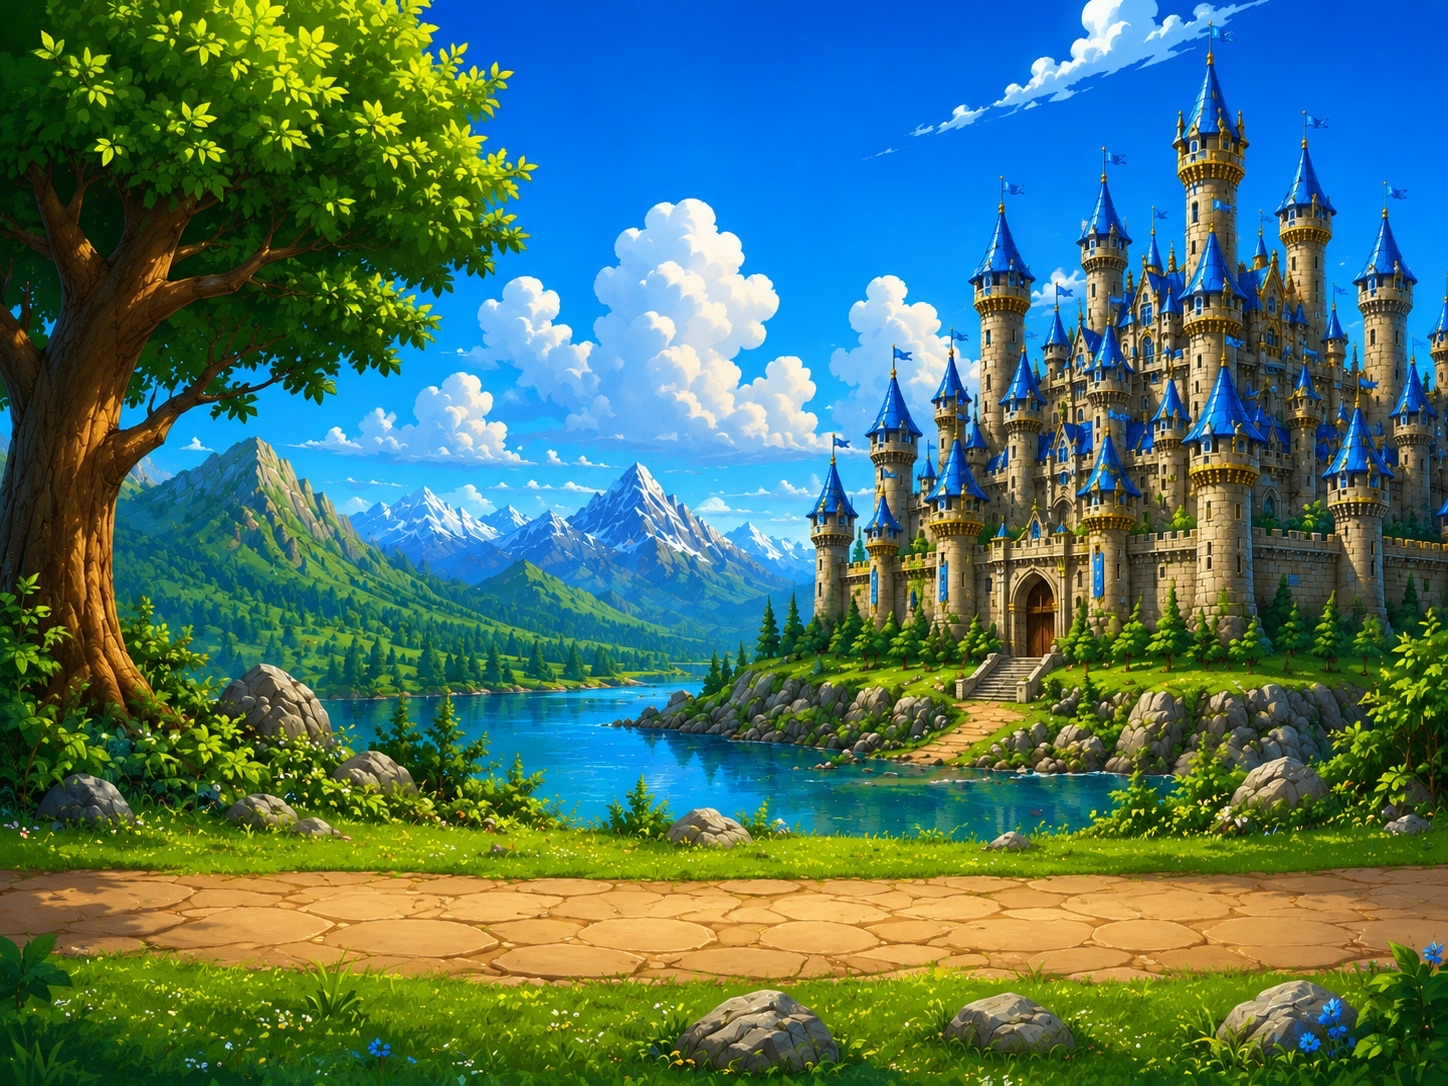
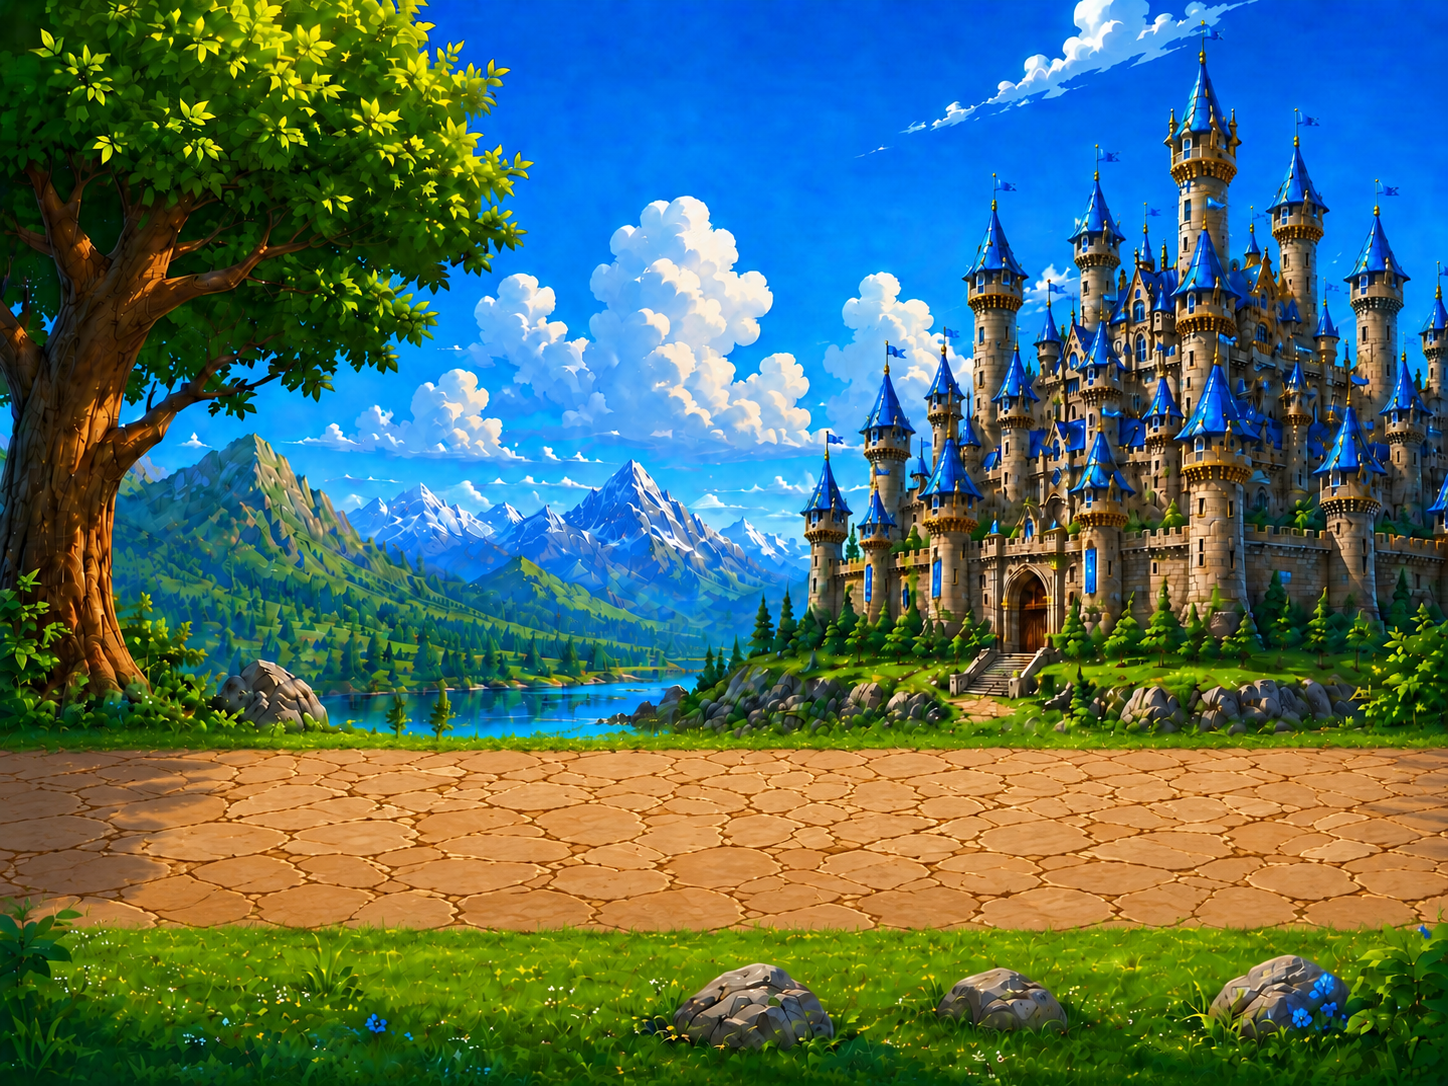
deploy

diff --git a/flutter_service_worker.js b/flutter_service_worker.js
@@ -22,11 +22,11 @@ const RESOURCES = {".git/COMMIT_EDITMSG": "45c9eb7fa6e6a781268f8a3b8d62d8b9",
 ".git/hooks/push-to-checkout.sample": "c7ab00c7784efeadad3ae9b228d4b4db",
 ".git/hooks/sendemail-validate.sample": "4d67df3a8d5c98cb8565c07e42be0b04",
 ".git/hooks/update.sample": "647ae13c682f7827c22f5fc08a03674e",
-".git/index": "93c9b75847247e6ef7473c531db1bafe",
+".git/index": "cbb3b2405c1a00537d2b2fc0636cca5d",
 ".git/info/exclude": "036208b4a1ab4a235d75c181e685e5a3",
-".git/logs/HEAD": "abaa09b4e73ff0c42d42c70174e08e63",
-".git/logs/refs/heads/main": "df1f13d39b8c5c9f3ba22aa9d0eec16a",
-".git/logs/refs/remotes/origin/main": "312b440e0ca0659f8e264867123fb52e",
+".git/logs/HEAD": "f9f08288977f86937f16a86cf0b85808",
+".git/logs/refs/heads/main": "94243ccacf17d97a7590c2835fb919c3",
+".git/logs/refs/remotes/origin/main": "e1e3fdac8f2f92d2be15bba2898fd5a6",
 ".git/objects/00/4bda465c9ded25b3f61507162a463f13f71871": "e49dc6b1fb86f9236b55357f4d8a7829",
 ".git/objects/00/751369d91f3ee2df336f54ea5fe0fc89c026cf": "c75afbf59647eb07c3da63f255192c84",
 ".git/objects/00/845272cfd3158758032e6a505e8bbaa8c04acb": "b522a5d86fd47cf6e847d8b1d68e036a",
@@ -42,11 +42,13 @@ const RESOURCES = {".git/COMMIT_EDITMSG": "45c9eb7fa6e6a781268f8a3b8d62d8b9",
 ".git/objects/09/0a87f43e524fe8f5eddc3c6950d202483f2c5b": "1c67a0c100b41fcb261379853a4913da",
 ".git/objects/0a/5e53bba4c22c3577d6784c8136a39059952924": "76b0f28c5e0729e7d96cf7447c873f34",
 ".git/objects/0b/0ddd70f3a32394d5027b44c8b07e865bc2b93c": "3a87a1ddd2f61c9c22d371bd4d2ff108",
+".git/objects/0d/07198f16db782808192c4512045268c6597b9e": "8221df1845b7b4a0d8f34d0ee4b380f4",
 ".git/objects/0d/df0ec50a90ff6b43aa044f7a6818f818509594": "d9a8495a42d719b670d669fcf0565d65",
 ".git/objects/0e/588465e96c086453fadd8df033755e45d17256": "4e827caf75813841025338b6e64d747d",
 ".git/objects/13/392e1dda03481bfbc4e69fe3573386f154f486": "dc061569a78790d1978ba821b527f561",
 ".git/objects/14/23e1056bfe028529591e6f31ef7bcdb7a7b9a7": "d01636d2731210c1f79f1cdeaed1e8de",
 ".git/objects/14/6438061155274f30c3fdb3dcc4af9503b5702e": "71b7a25273ff9d2de18604d8cb0ba3e5",
+".git/objects/15/c0305ef8431fb9f56a719f9a0850b74168532c": "3d61eb4eca042ffabd8286487a1dce19",
 ".git/objects/18/27a329f2fac4275a9799bc991a2623ab180e1a": "6e7e4a7fca5bc60d0d5d4c158ba6d1f8",
 ".git/objects/18/52cff9b578a991f04dc29e4bb88bfc0ca4aa69": "aa1f4e6358adfa674ad97adddfcc81b9",
 ".git/objects/1c/91121e2a757545d6cfec0c34b63118e260f76c": "d3cc11de0871637dbe621176c87d5bb2",
@@ -67,6 +69,7 @@ const RESOURCES = {".git/COMMIT_EDITMSG": "45c9eb7fa6e6a781268f8a3b8d62d8b9",
 ".git/objects/34/b722a41c19220c24d3df9337a4c0d632988b54": "3227efbc821efc48a336402af802a1c1",
 ".git/objects/34/bf47accc6b998cc0915b35eb9e0cfbdf19db20": "ad76904ef51f9d7c33d740e9bc8cf607",
 ".git/objects/35/9176f5b35245b7936744ba13d771e2115409cd": "d3ef9fd8faba91f6a5d650755ff8332b",
+".git/objects/35/b12c85abbba8da859226d6c6ddc45128bd1667": "2d93492807f430bb27365db3b5fd637e",
 ".git/objects/39/9061f8a0621715d0bd968b7051f497a3e7ca31": "b7c61732475f5f7fc8746c4f45b5ea8f",
 ".git/objects/3a/2fb374ce038d6f079a1a2130d0218a089ef99b": "86e648f3fc1e4f030c8777886d67e519",
 ".git/objects/3b/001690156a9cc8743ca3564b3ef04a9b545423": "14c9e894fa331d80ad9aeffa39ec9d58",
@@ -86,6 +89,7 @@ const RESOURCES = {".git/COMMIT_EDITMSG": "45c9eb7fa6e6a781268f8a3b8d62d8b9",
 ".git/objects/4a/2d64cad106407c9242e75cba33de893271b551": "475e99af05f882b2740292cafddf4d01",
 ".git/objects/4a/db1ca206f14d1842e87bc48c6abbb7c2cf903f": "a9b17b2d447db743209751341a950e25",
 ".git/objects/4b/04006480f884a12d164d72273f8aafe2f33052": "84e205281a301e5a440a3d18d88684f7",
+".git/objects/4c/a76006c783f3babb5a42368c0acaf8edde0b3a": "9f0947999c5c263bbfec74994384eb4a",
 ".git/objects/4d/1e6e90b7083f66ddec47d93dd77bbab44d5921": "72f9481a7620cc60928fff8190089c7e",
 ".git/objects/4d/8f1faf3e2aeeda5f21920ceb5d08dc06dcc853": "cfd6dfa4e42cae1cb3cbc77a2fd36676",
 ".git/objects/4e/28a82bf9087a9ea5289a9d317258cbca5e16d7": "595bec503af11c36a505e8a17d10a11d",
@@ -100,6 +104,7 @@ const RESOURCES = {".git/COMMIT_EDITMSG": "45c9eb7fa6e6a781268f8a3b8d62d8b9",
 ".git/objects/5b/897f4496f30d49b9c7852f63b31b9a4b478870": "b9574b339a27a477d54e25337fb40885",
 ".git/objects/5d/cde9f3e01098d5e7060a8849247ddca84b5a6e": "f4b93d71d2dc3ae2236be47f0818fd9c",
 ".git/objects/5e/0c836743cacc7cbf54e1f176f386545b1fc941": "93c0573611a3ea617d5d25bfbb99d74e",
+".git/objects/5f/27ca1497fce5cd776147687312c22246265638": "16c7268e643e2232fdde069b83a362cf",
 ".git/objects/61/f5c06cace931ef088b0717a15e96ca6dbab8aa": "f3457e2a1bd287bbae54715e6213d5c2",
 ".git/objects/62/a402820217e5dba71425d6d432cf51fb25cf86": "c9ed9c3945a161c075bdb7361d17c10f",
 ".git/objects/65/9c168de863b7fbb9a9a80b5376bc3571914ef8": "0a60f561b787bb7c05acd83ac8768b5a",
@@ -115,6 +120,7 @@ const RESOURCES = {".git/COMMIT_EDITMSG": "45c9eb7fa6e6a781268f8a3b8d62d8b9",
 ".git/objects/6c/c08fb45c17a3770aff7e38bb12de2dc42c54e4": "ae74187390a0664322213deb7ada57e1",
 ".git/objects/6f/01f4bc7348373d05d675e9f5feae7832f1e9c4": "6dbbf4a1931e3c3ae679911dfa54f627",
 ".git/objects/6f/24db2e445d38c1c481c5d586fc285f4496195c": "1096a6c3fc288cabd839f133e84ae95b",
+".git/objects/70/372123f9e9ec33cb212b3b31cdf43624346fe3": "b57101119a6367363f92c4592e2bf0d6",
 ".git/objects/70/9acd46a68c1e0e1a9247655a25ca57b1fdcf54": "05f0c963562b200947250fe92457753a",
 ".git/objects/71/be36d75f4e29eb7755dcc4c62292c34404d45a": "e23d4b7cac5fef6d78aaa8f03cbbc673",
 ".git/objects/74/1ced4017d67b0404b7f484841a190d6895587f": "170324a20dfa61ee95b9d1876f02640a",
@@ -125,6 +131,7 @@ const RESOURCES = {".git/COMMIT_EDITMSG": "45c9eb7fa6e6a781268f8a3b8d62d8b9",
 ".git/objects/7a/221c3a7bf69e79b251522a22415151aab16b0d": "8a860ac35e64de9688f91bf37a1e2b2d",
 ".git/objects/7f/3c25ff445783a3beed3a4c3f1fe7169956d477": "01252f88884bfa848e51fe6b08ac64b1",
 ".git/objects/7f/a3a6d7eda102e7344f48fcc1ca4d1c3b8a5a30": "cba752dc51b32c6a2099e068e82a1a8e",
+".git/objects/7f/f7d30a8de1d42a6af6ba74c1cec6c2711d026c": "29757270e112f7503cdda988bc88cbbd",
 ".git/objects/80/2a8e37d5ba2252f5f7e6ab4aaee84ebc121ade": "50867b15edba747ef0145c52b05e18ad",
 ".git/objects/81/8ce240843c431d94e475b7a8fbf046a0c46c94": "99de5b42cc939ce1d0191ad6ee5f2d6b",
 ".git/objects/84/33338735e18c4bb7739d7e7d978300b1911682": "faa43d965dbf7e736b63460197f2839e",
@@ -139,6 +146,7 @@ const RESOURCES = {".git/COMMIT_EDITMSG": "45c9eb7fa6e6a781268f8a3b8d62d8b9",
 ".git/objects/8f/5782c795072eb7ab46346c4a9af5ffeb59e0dc": "67ffeb2697dff2a02daf7167d1ad8707",
 ".git/objects/8f/f97e0fd1e48583e7b27b5c516b0bc924ee3f27": "ccfb583fee625361a860ec71ae5e225d",
 ".git/objects/91/cffb0d0e220b8930dc05065dad63f56b1a6a60": "58c348e58c5158e0d6f38958ede9b203",
+".git/objects/93/d2925b0644b6b52faa13be8e17e8fb383566c1": "d277e10881561044f842734fcf5c0a52",
 ".git/objects/94/a87fb17abca62d36c6f2b32b2d6562943370f4": "7bdb78c9689bd99edce063e3f5a0b81e",
 ".git/objects/98/f5f5d20e15d16d10ea85cf764479c0acef1279": "ee1f8119ed714619413de39be66ec404",
 ".git/objects/9a/ddc8e48ac57cccb9187f06a6f848a233f6664a": "2100ee6006fe7d4bdca91c3a387101c5",
@@ -157,6 +165,7 @@ const RESOURCES = {".git/COMMIT_EDITMSG": "45c9eb7fa6e6a781268f8a3b8d62d8b9",
 ".git/objects/a5/b4a48b04ba63d869eb6f0436c5562c4a899ae0": "9fca252b3f261735421026cbe68c9b8a",
 ".git/objects/a5/d10e82980f656c5677304634156cd9fdb2032e": "45d50fc1a205e966a1eb4849b6f97190",
 ".git/objects/a7/f91ec6e59be8142d1b78b4ca593470901d2e11": "d70e82dec4def68731708edba18605dd",
+".git/objects/a9/dfbb502bae86b3e13eb204b94b288c26e7e1ec": "4de8fb580685a8a4f4d42627fca3e389",
 ".git/objects/ab/28626b2c044ea29f11ea36d900c14bb4862401": "e42f22bcf8a3896c02041cdac50ecc55",
 ".git/objects/b0/36b18a34437550cf772d9eea0982b942e99a0f": "adcbfd08c4f4c1d4f9a50ec13c7edfa2",
 ".git/objects/b1/e5403dca4b5a1628553594dcb1607151ec4321": "84af50d03b5ced324c1ea83adc56ea6e",
@@ -174,11 +183,14 @@ const RESOURCES = {".git/COMMIT_EDITMSG": "45c9eb7fa6e6a781268f8a3b8d62d8b9",
 ".git/objects/c0/83c9d8e9ee8202d8fb23937bdfd518032bb736": "f37fab16aca71a54f7e903049592160d",
 ".git/objects/c4/5a1c637ce03e80c725953095e6f9436bcc5258": "aaae87ee8917e791bc06c32d29388a4e",
 ".git/objects/c4/5ef13fd09d0cef30bcbbb0b10208b9b9b55681": "40a569751b8e7f26828b4165eadc1ca2",
+".git/objects/c5/5f671424a46250446059dd56cf875b9b1a26db": "742e7b8e63ba1b9fb17d8b12ae09234b",
 ".git/objects/c5/7851152248cb4a1e11486e45bf3b19023b8082": "3d9163b4141e9c4cb4372df770dcdb3b",
 ".git/objects/c6/bc58dcc8047c847995aa7eb5e8b81a0b59e6a9": "c7d0e3f0a733a1e148a6c9e0bb862028",
 ".git/objects/c7/33848bc53d03cfb513f5949fd7e2eb199a1e66": "f10db49bd55bec60bff87e8aa2fb2cd3",
+".git/objects/c8/178317fbb14ec2dda80c9d0008fd5b78b0868d": "59ae7681dfa5e2b2df802bb91382b842",
 ".git/objects/c8/760e6ac802a48c5d2819a5edb7561382fa52e3": "b65b48c082772189df9d3a343a125dae",
 ".git/objects/c8/bfd95daf134442259cc556e3c7b7a5d42cc5c5": "ff2454f031fe7d6a081885ebfad96a93",
+".git/objects/c9/2357a86bb331d5d6f1ff9f56b81d31aa36586b": "3e70b6776ac04718904598ab25950abb",
 ".git/objects/cb/56c6c4bfa63208960695e065189be7c689282d": "6cfe1ac4aa5ae4ae1789819036ee8cbc",
 ".git/objects/cd/01843cf41b73fb4a86399663536d079d56023a": "34620f34c9fd87ff656cd746052541d8",
 ".git/objects/d2/f8a243e729c38073352ae7c5b4eddc8ee92338": "ab14923ca5683229747bb55fa21a99b8",
@@ -190,6 +202,7 @@ const RESOURCES = {".git/COMMIT_EDITMSG": "45c9eb7fa6e6a781268f8a3b8d62d8b9",
 ".git/objects/d8/36701635214ad9a312cbf4cceda370a1a4c908": "13f4ca2a434093f8daecc11c6a3e991d",
 ".git/objects/d8/73b753a55ed2274a09138c2e3046039ab1838f": "589caf5690ebabd9a9ba2dac93271204",
 ".git/objects/da/5664160e49807cf626a06021578d36393a7c1b": "a87c24e92f0b82478e3250fc1746f9e4",
+".git/objects/de/3906f398662110064a545c85cf24f74a5ad101": "a3c79fb195db5ff92839ebd752f918ff",
 ".git/objects/de/ef7857915bbe353bed919e38365f1f29efee17": "a4c56952a3633fa5af018e4152b41268",
 ".git/objects/e1/af34e89efc6ec9610277adc8cced0cb975feb8": "cf00bee1664e07e2b71ebfcb652cbeb0",
 ".git/objects/e2/b62be81481c8f24cd2e1bbf3cc10e8b10594be": "8a79e0da72756e24cc6a53cc9028c890",
@@ -217,11 +230,11 @@ const RESOURCES = {".git/COMMIT_EDITMSG": "45c9eb7fa6e6a781268f8a3b8d62d8b9",
 ".git/objects/pack/pack-8d904839d81770c6ce87afeec5b3029ab3054f90.idx": "c89ae881b0f2866cc6a7a9722b716d68",
 ".git/objects/pack/pack-8d904839d81770c6ce87afeec5b3029ab3054f90.pack": "0c7a9ae1ac72bc226f7157ea24adb20a",
 ".git/objects/pack/pack-8d904839d81770c6ce87afeec5b3029ab3054f90.rev": "ce0d5cd928358b7671be581be04391d3",
-".git/refs/heads/main": "34166588bc3c91f68a451abff1b17355",
-".git/refs/remotes/origin/main": "34166588bc3c91f68a451abff1b17355",
-"assets/AssetManifest.bin": "247816a4452a399696059125724049a0",
-"assets/AssetManifest.bin.json": "c4924b76cf28963b09eb3ca4b79f5704",
-"assets/AssetManifest.json": "5e7dc7926608ad6fbfab5db45552c42f",
+".git/refs/heads/main": "1721aa4be8cc46fac98ea020630857df",
+".git/refs/remotes/origin/main": "1721aa4be8cc46fac98ea020630857df",
+"assets/AssetManifest.bin": "5f0c8e7afa982d8caca91ebec86dccff",
+"assets/AssetManifest.bin.json": "357a3d21ee1092474ff6bb3017045cbc",
+"assets/AssetManifest.json": "174686d22a9d59b06060d4a5df0921db",
 "assets/FontManifest.json": "dc3d03800ccca4601324923c0b1d6d57",
 "assets/fonts/MaterialIcons-Regular.otf": "e7069dfd19b331be16bed984668fe080",
 "assets/lib/anim/hero-pro.atlas": "b1327fb842726a97579ead6cebd939d4",
@@ -233,7 +246,8 @@ const RESOURCES = {".git/COMMIT_EDITMSG": "45c9eb7fa6e6a781268f8a3b8d62d8b9",
 "assets/lib/img/BB3.png": "954cfe3c61e3cf14314f6554bdd58459",
 "assets/lib/img/BB4.png": "ab984b387641603bbda22eb507eaa1cd",
 "assets/lib/img/BB5.png": "5791fde3af0ed1249fb9742a08e3a187",
-"assets/lib/img/game_bg.png": "3c4d079660a7952c91dfd18194dd34ec",
+"assets/lib/img/game_bg%2520-%2520Copie.png": "3c4d079660a7952c91dfd18194dd34ec",
+"assets/lib/img/game_bg.png": "93eb58498ea8709eb291b7556704616f",
 "assets/lib/img/player_card_bg.png": "a7d264bfdfb13fbe49e950e4cbe0169f",
 "assets/lib/img/splash.png": "6c2f3bc0f74015aed80511290b4a2ac5",
 "assets/NOTICES": "da2b10dc4a409d181f1977ec5af206f2",
@@ -257,14 +271,14 @@ const RESOURCES = {".git/COMMIT_EDITMSG": "45c9eb7fa6e6a781268f8a3b8d62d8b9",
 "canvaskit/skwasm_heavy.wasm": "8034ad26ba2485dab2fd49bdd786837b",
 "favicon.png": "5dcef449791fa27946b3d35ad8803796",
 "flutter.js": "888483df48293866f9f41d3d9274a779",
-"flutter_bootstrap.js": "7be360f1498ae7b71fdab8622621938c",
+"flutter_bootstrap.js": "54a6e9cd7eaa3fae8c186df32d058734",
 "icons/Icon-192.png": "ac9a721a12bbc803b44f645561ecb1e1",
 "icons/Icon-512.png": "96e752610906ba2a93c65f8abe1645f1",
 "icons/Icon-maskable-192.png": "c457ef57daa1d16f64b27b786ec2ea3c",
 "icons/Icon-maskable-512.png": "301a7604d45b3e739efc881eb04896ea",
 "index.html": "5df77ae1f6c6ad0775c47e1d30c95faf",
 "/": "5df77ae1f6c6ad0775c47e1d30c95faf",
-"main.dart.js": "89d6704c259ac893382bc0c467337ee0",
+"main.dart.js": "d39c5dc4de607c3771e5ef48bd6a2b2a",
 "manifest.json": "829c0ad170e501a30061a5bb88af300f",
 "splash.jpg": "3431200f8af4076dec0e44fab90a65ef",
 "version.json": "8b06fd8cf640b1e210e6794b4f2c922d"};

diff --git a/flutter_bootstrap.js b/flutter_bootstrap.js
@@ -38,7 +38,7 @@ _flutter.buildConfig = {"engineRevision":"035316565ad77281a75305515e4682e6c4c6f7
 
 _flutter.loader.load({
   serviceWorkerSettings: {
-    serviceWorkerVersion: "627981512"
+    serviceWorkerVersion: "3399007856"
   },
   config: { hostElement: document.querySelector('#app') }
 });